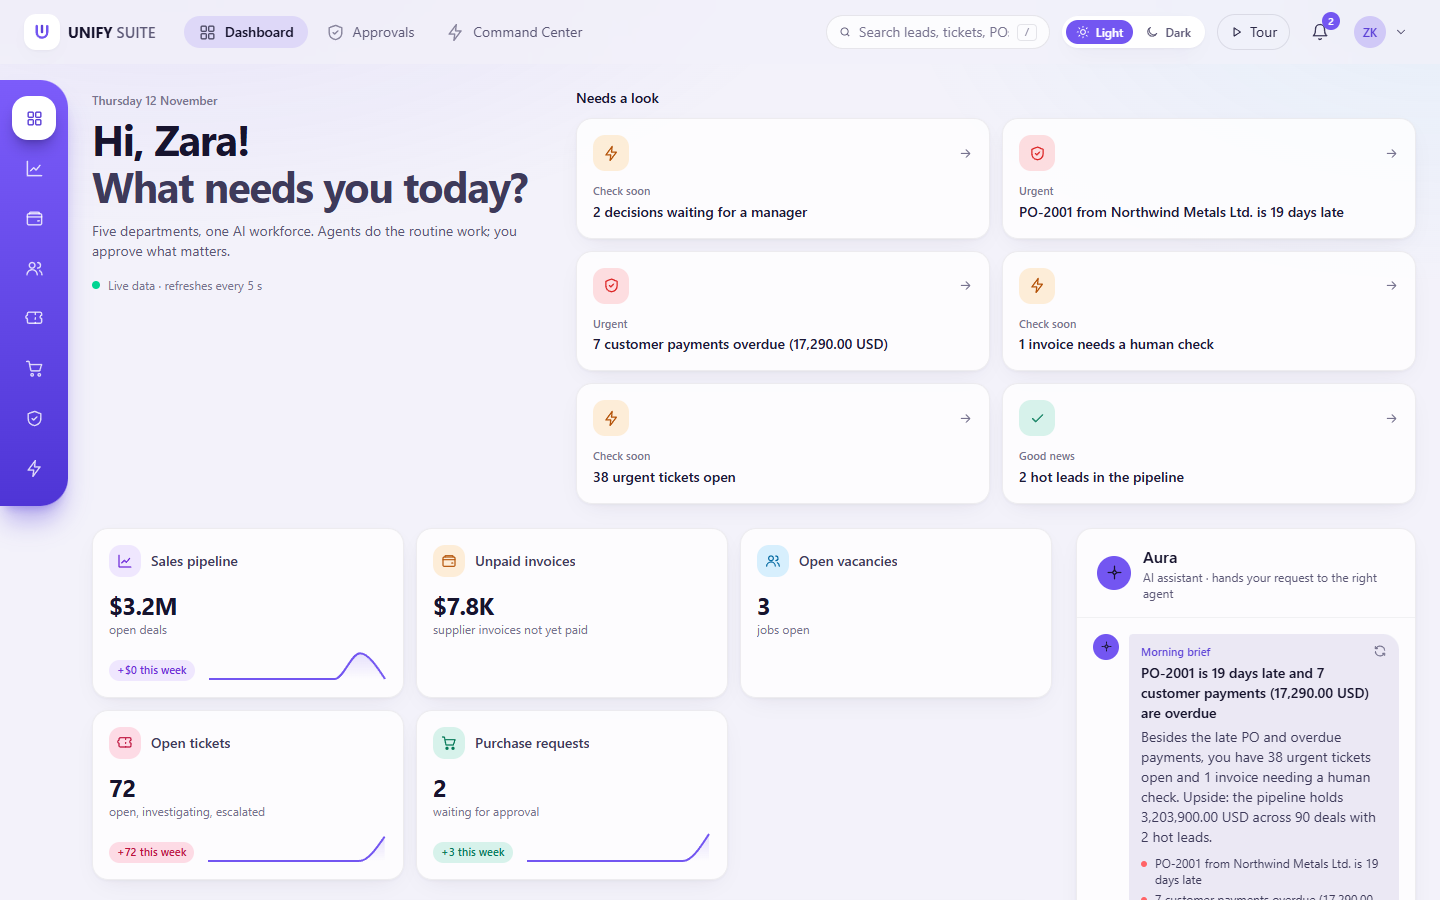
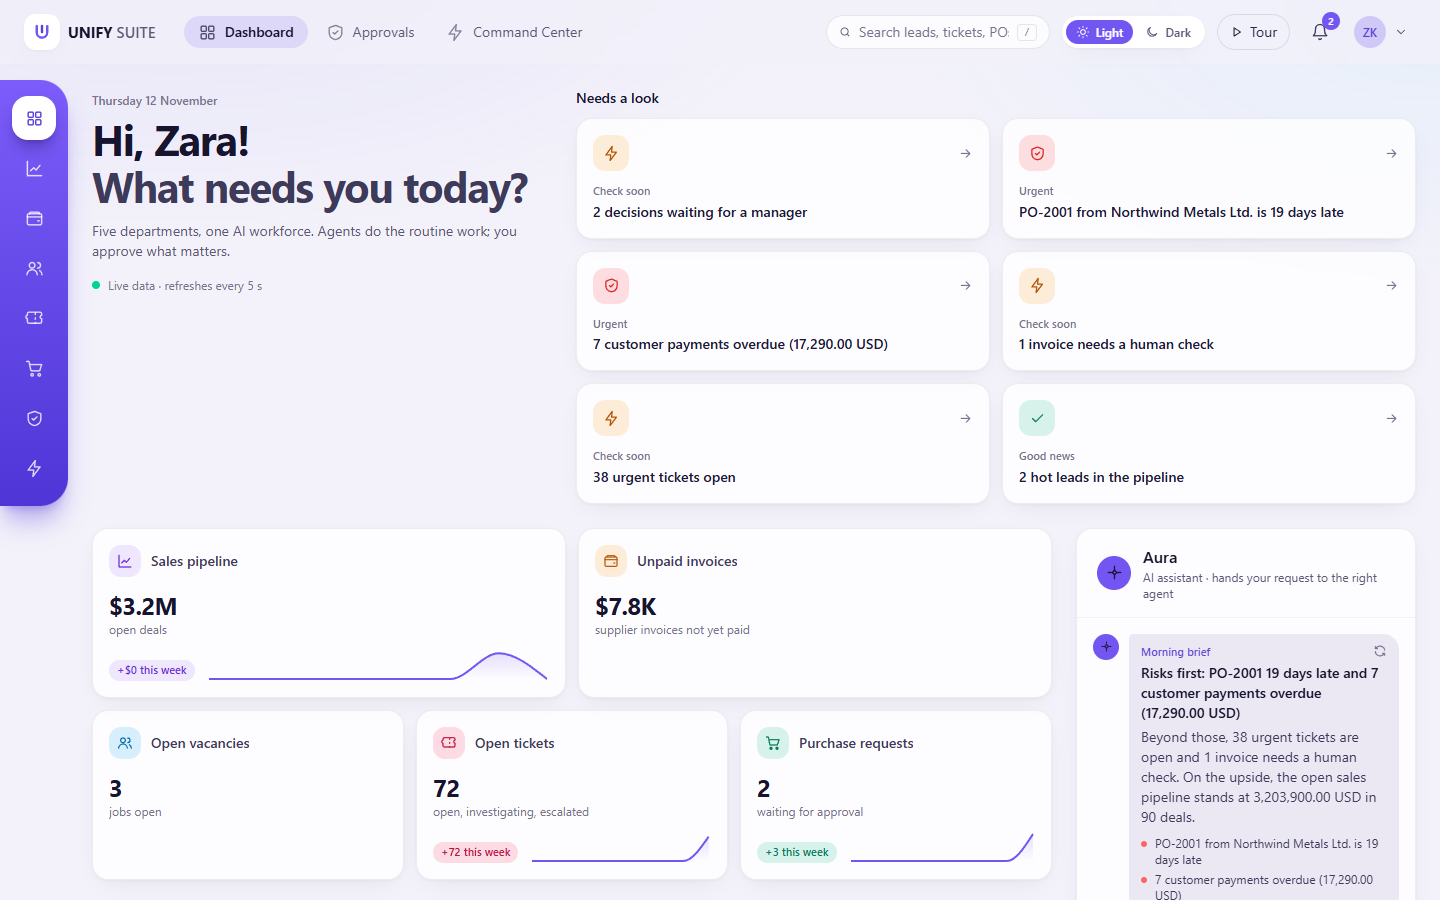
Lay out the dashboard KPI cards without an empty slot
Below the widest screens the two money cards share the first row and the
three counts the second, instead of leaving a gap in a three-column grid.
The README dashboard screenshot shows the new layout.

diff --git a/frontend/src/pages/Dashboard.tsx b/frontend/src/pages/Dashboard.tsx
@@ -156,6 +156,7 @@ function Kpi({
   week,
   series,
   seriesName,
+  className = "",
 }: {
   title: string;
   value: string | number;
@@ -166,11 +167,13 @@ function Kpi({
   week?: string;
   series?: number[];
   seriesName?: string;
+  /** Grid placement (column spans) from the row layout. */
+  className?: string;
 }) {
   return (
     <Link
       to={to}
-      className="hover-lift group flex min-w-0 flex-col rounded-2xl border border-white/[0.07] bg-navy-900/80 p-4 card-shadow"
+      className={`hover-lift group flex min-w-0 flex-col rounded-2xl border border-white/[0.07] bg-navy-900/80 p-4 card-shadow ${className}`}
     >
       <span className="flex items-center gap-2.5">
         <span className={`grid h-8 w-8 shrink-0 place-items-center rounded-xl ${CHIP_TONE[tone]}`}>
@@ -228,9 +231,12 @@ export function Dashboard() {
 
       <div className="grid gap-6 xl:grid-cols-[minmax(0,1fr)_340px] 2xl:grid-cols-[minmax(0,1fr)_370px]">
         <div className="min-w-0 space-y-6">
-          <div className="stagger grid grid-cols-1 gap-3 sm:grid-cols-2 lg:grid-cols-3 2xl:grid-cols-5">
+          {/* Five cards, no empty slot: one row of five on wide screens, otherwise the two money
+              cards above the three counts (and two per row on small screens). */}
+          <div className="stagger grid grid-cols-1 gap-3 sm:grid-cols-2 lg:grid-cols-6 2xl:grid-cols-5">
             <Kpi
               title="Sales pipeline"
+              className="lg:col-span-3 2xl:col-span-1"
               value={k ? sumText(k.sales_pipeline) : "…"}
               hint="open deals"
               to="/sales"
@@ -246,6 +252,7 @@ export function Dashboard() {
             />
             <Kpi
               title="Unpaid invoices"
+              className="lg:col-span-3 2xl:col-span-1"
               value={k ? sumText(k.unpaid_invoices) : "…"}
               hint="supplier invoices not yet paid"
               to="/payments"
@@ -254,6 +261,7 @@ export function Dashboard() {
             />
             <Kpi
               title="Open vacancies"
+              className="lg:col-span-2 2xl:col-span-1"
               value={k?.open_vacancies ?? "…"}
               hint="jobs open"
               to="/hr"
@@ -262,6 +270,7 @@ export function Dashboard() {
             />
             <Kpi
               title="Open tickets"
+              className="lg:col-span-2 2xl:col-span-1"
               value={k?.open_tickets ?? "…"}
               hint="open, investigating, escalated"
               to="/support"
@@ -273,6 +282,7 @@ export function Dashboard() {
             />
             <Kpi
               title="Purchase requests"
+              className="sm:col-span-2 lg:col-span-2 2xl:col-span-1"
               value={k?.pending_purchase_requests ?? "…"}
               hint="waiting for approval"
               to="/procurement"
